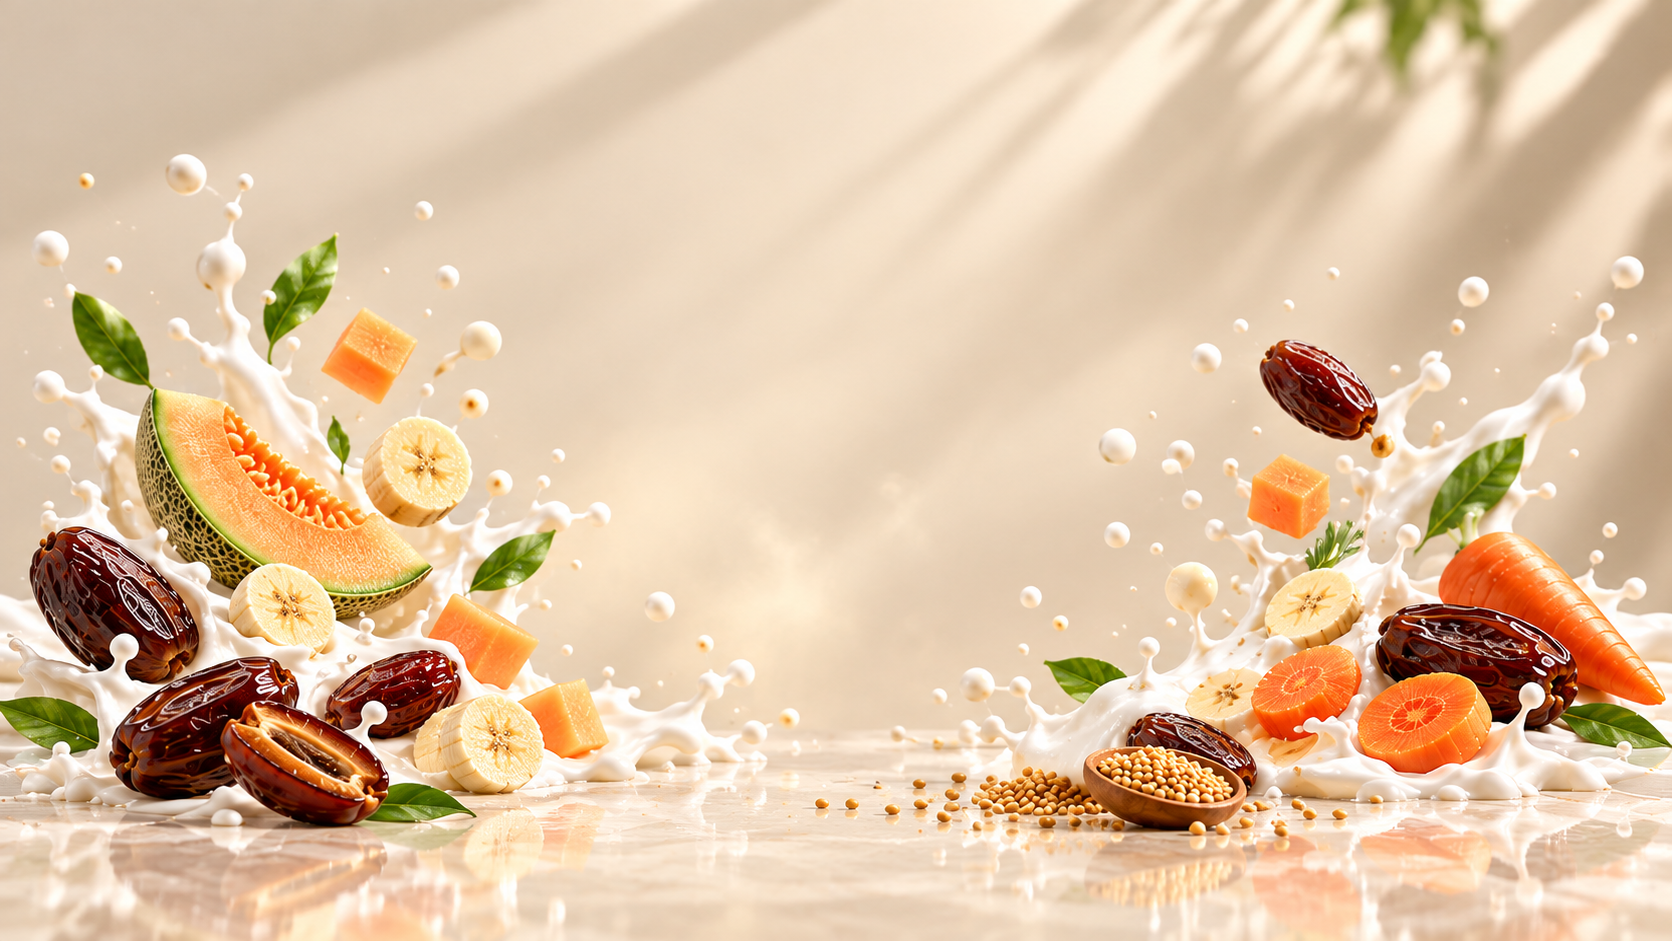
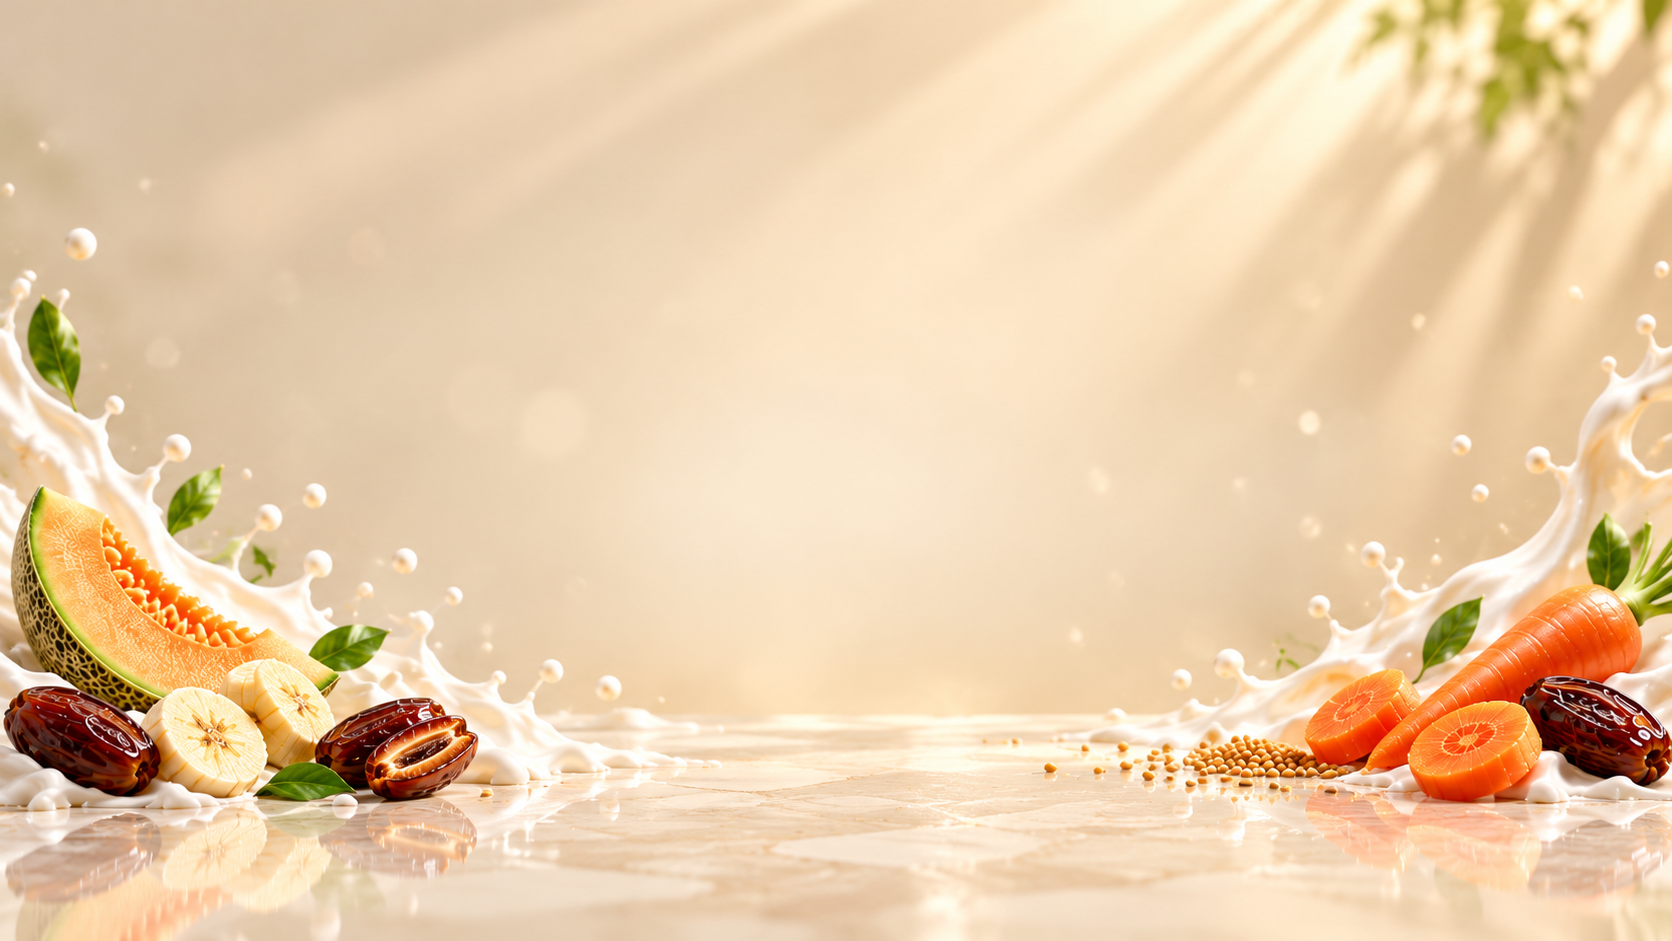
responsive

diff --git a/src/components/Products.jsx b/src/components/Products.jsx
@@ -73,14 +73,23 @@ export default function Products() {
   const [mActive, setMActive] = useState(0)
   const [holding, setHolding] = useState(false) // mobile: finger is holding on the bottle
   const holdTimer = useRef(null)
+  const holdOrigin = useRef(null)
 
-  const startHold = () => {
+  const startHold = (event) => {
     clearTimeout(holdTimer.current)
+    holdOrigin.current = { x: event.clientX, y: event.clientY }
     holdTimer.current = setTimeout(() => setHolding(true), 180)
   }
   const endHold = () => {
     clearTimeout(holdTimer.current)
+    holdOrigin.current = null
     setHolding(false)
+  }
+  const moveHold = (event) => {
+    if (!holdOrigin.current) return
+    const dx = event.clientX - holdOrigin.current.x
+    const dy = event.clientY - holdOrigin.current.y
+    if (dx * dx + dy * dy > 100) endHold()
   }
 
   useEffect(() => {
@@ -231,7 +240,7 @@ export default function Products() {
         <h2 className="sr-only">Our range</h2>
 
         <div data-m-pin className="relative h-[100svh] w-full overflow-hidden">
-          <div className="mx-auto flex h-full w-full max-w-[480px] flex-col px-6 pb-8 pt-8">
+          <div className="mx-auto flex h-full w-full max-w-[480px] flex-col px-5 pb-6 pt-6 [padding-bottom:max(1.5rem,env(safe-area-inset-bottom))] [padding-top:max(1.5rem,env(safe-area-inset-top))]">
             {/* progress */}
             <div data-m-hud className="relative z-20">
               <div className="flex items-center justify-between text-[15px] font-semibold">
@@ -253,16 +262,17 @@ export default function Products() {
 
             {/* stage: fixed disc + bottle box (bottle is static inside this box, swaps instantly) */}
             <div
-              className="relative mt-3 min-h-[min(240px,35svh)] flex-1 select-none overflow-hidden"
+              className="relative mt-3 min-h-0 flex-1 select-none overflow-hidden"
               style={{ WebkitTouchCallout: 'none' }}
               onPointerDown={startHold}
+              onPointerMove={moveHold}
               onPointerUp={endHold}
               onPointerCancel={endHold}
               onPointerLeave={endHold}
               onContextMenu={(e) => e.preventDefault()}
             >
               <div aria-hidden className="absolute inset-0 flex items-center justify-center">
-                <div data-m-disc className="aspect-square w-[min(88%,46svh)] rounded-full" style={{ background: LIME }} />
+                <div data-m-disc className="aspect-square w-[min(84%,42svh)] rounded-full" style={{ background: LIME }} />
               </div>
 
               {PRODUCTS.map((p, i) => (
@@ -280,7 +290,7 @@ export default function Products() {
                     fill
                     sizes="(min-width: 1024px) 0px, 90vw"
                     className={`pointer-events-none z-0 select-none object-contain transition-all duration-500 ease-out motion-reduce:transition-none ${
-                      holding && i === mActive ? 'scale-[1.35] rotate-0 opacity-100' : '-rotate-6 scale-75 opacity-0'
+                      holding && i === mActive ? 'scale-[1.12] rotate-0 opacity-100' : '-rotate-6 scale-[0.65] opacity-0'
                     }`}
                     draggable={false}
                   />
@@ -312,7 +322,7 @@ export default function Products() {
             </div>
 
             {/* name + one line */}
-            <div className="relative mt-2 h-[14svh] min-h-[76px]">
+            <div className="relative mt-2 h-[clamp(76px,14svh,112px)] shrink-0">
               {PRODUCTS.map((p, i) => (
                 <div
                   key={`${p.name}-${i}`}
@@ -323,7 +333,7 @@ export default function Products() {
                   <h3 className="text-[clamp(2.6rem,12vw,3.4rem)] leading-[1.02] tracking-tight" style={DISPLAY}>
                     {p.name}
                   </h3>
-                  <p className="mt-2 text-[16px] font-light opacity-80">{p.text}</p>
+                  <p className="mt-2 max-w-[32ch] px-2 text-[clamp(14px,4vw,16px)] font-light opacity-80">{p.text}</p>
                 </div>
               ))}
             </div>

diff --git a/src/components/BrandStory.jsx b/src/components/BrandStory.jsx
@@ -248,14 +248,14 @@ const BrandStory = () => {
         <div
           ref={stageRef}
           aria-hidden
-          className="relative mt-14 flex h-[calc(var(--bottle-h)*1.35)] flex-none items-end justify-center sm:mt-20 sm:h-[calc(var(--bottle-h)*1.18)]"
+          className="relative mt-14 flex h-[calc(var(--bottle-h)*1.35)] flex-none items-end justify-center sm:mt-20 sm:h-[calc(var(--bottle-h)*1.28)]"
           style={{ '--bottle-h': BOTTLE_H, width: 'min(100vw, 1440px)' }}
         >
           <img
             src="/banner.png"
             alt=""
             draggable={false}
-            className="pointer-events-none absolute left-1/2 top-0 h-[119%] w-[min(120vw,1800px)] max-w-none -translate-x-1/2 object-cover object-center sm:h-[136%]"
+            className="pointer-events-none absolute left-1/2 top-0 h-[119%] w-[min(120vw,1800px)] max-w-none -translate-x-1/2 object-cover object-center sm:h-[125%]"
             style={{ zIndex: 0 }}
           />
           {crops &&
